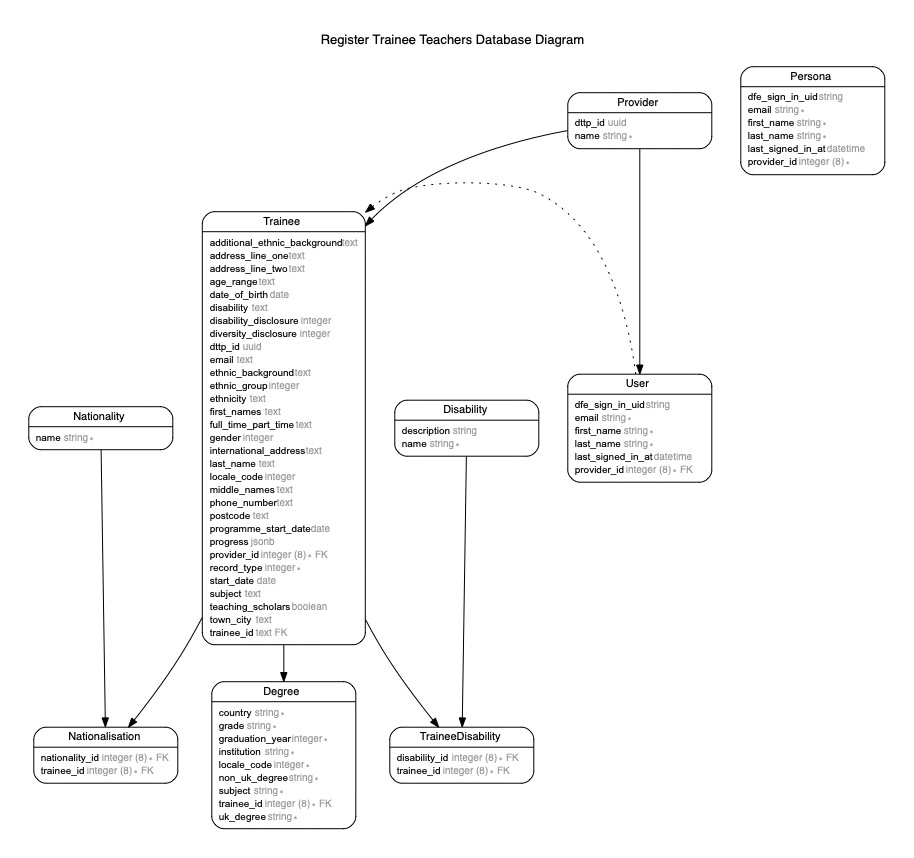
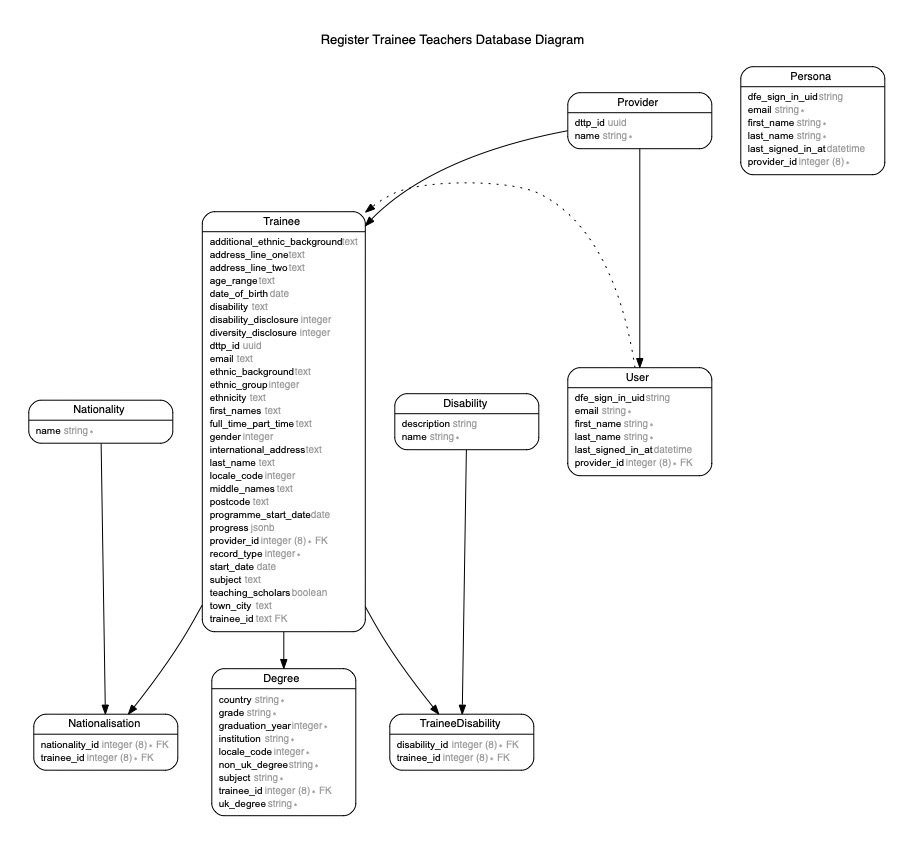
[605] remove trainee phone number

diff --git a/spec/components/trainees/confirmation/contact_details/view_spec.rb b/spec/components/trainees/confirmation/contact_details/view_spec.rb
@@ -10,8 +10,8 @@ RSpec.describe Trainees::Confirmation::ContactDetails::View do
       @result ||= render_inline(Trainees::Confirmation::ContactDetails::View.new(trainee: Trainee.new(id: 1)))
     end
 
-    it "renders blank rows for address, email, telephone" do
-      expect(component).to have_selector(".govuk-summary-list__row", count: 3)
+    it "renders blank rows for address, email" do
+      expect(component).to have_selector(".govuk-summary-list__row", count: 2)
     end
 
     it "tells the user that no data has been entered" do
@@ -27,8 +27,8 @@ RSpec.describe Trainees::Confirmation::ContactDetails::View do
       @result ||= render_inline(Trainees::Confirmation::ContactDetails::View.new(trainee: mock_trainee))
     end
 
-    it "renders rows for address, email, telephone" do
-      expect(component).to have_selector(".govuk-summary-list__row", count: 3)
+    it "renders rows for address, email" do
+      expect(component).to have_selector(".govuk-summary-list__row", count: 2)
     end
 
     it "renders the address" do
@@ -41,11 +41,6 @@ RSpec.describe Trainees::Confirmation::ContactDetails::View do
         ].join)
     end
 
-    it "renders the phone number" do
-      expect(component.find(".govuk-summary-list__row.phone-number .govuk-summary-list__value"))
-        .to have_text(mock_trainee.phone_number)
-    end
-
     it "renders the email address" do
       expect(component.find(".govuk-summary-list__row.email-address .govuk-summary-list__value"))
         .to have_text(mock_trainee.email)
@@ -55,23 +50,17 @@ RSpec.describe Trainees::Confirmation::ContactDetails::View do
   context "non UK based trainee" do
     before(:all) do
       mock_trainee.locale_code = "non_uk"
-      mock_trainee.phone_number = "+33 (0)8 92 70 12 39"
       mock_trainee.email = "visit@paris.com"
       @result ||= render_inline(Trainees::Confirmation::ContactDetails::View.new(trainee: mock_trainee))
     end
 
-    it "renders rows for address, email, telephone" do
-      expect(component).to have_selector(".govuk-summary-list__row", count: 3)
+    it "renders rows for address, email" do
+      expect(component).to have_selector(".govuk-summary-list__row", count: 2)
     end
 
     it "renders the address" do
       expect(component.find(".govuk-summary-list__row.address .govuk-summary-list__value"))
         .to have_text(mock_trainee.international_address.split(/\r\n+/).join)
-    end
-
-    it "renders the phone number" do
-      expect(component.find(".govuk-summary-list__row.phone-number .govuk-summary-list__value"))
-        .to have_text(mock_trainee.phone_number)
     end
 
     it "renders the email address" do
@@ -88,8 +77,7 @@ private
                                   address_line_two: "Westminster",
                                   town_city: "London",
                                   postcode: "EC1 9CP",
-                                  international_address: "Champ de Mars\r\n5 Avenue Anatole France\r\n75007 Paris\r\nFrance",
-                                  phone_number: "0207 123 4567",
+                                  international_address: "Champ de Mars\r\n5 Avenue Anatole",
                                   email: "Paddington@bear.com")
   end
 end

diff --git a/db/schema.rb b/db/schema.rb
@@ -10,7 +10,7 @@
 #
 # It's strongly recommended that you check this file into your version control system.
 
-ActiveRecord::Schema.define(version: 2020_12_01_145149) do
+ActiveRecord::Schema.define(version: 2020_12_07_122253) do
 
   # These are extensions that must be enabled in order to support this database
   enable_extension "plpgsql"
@@ -84,7 +84,6 @@ ActiveRecord::Schema.define(version: 2020_12_01_145149) do
     t.text "address_line_two"
     t.text "town_city"
     t.text "postcode"
-    t.text "phone_number"
     t.text "email"
     t.date "start_date"
     t.text "full_time_part_time"

diff --git a/spec/components/trainees/confirmation/contact_details/view_preview.rb b/spec/components/trainees/confirmation/contact_details/view_preview.rb
@@ -12,7 +12,6 @@ module Trainees
 
         def with_non_uk_address
           mock_trainee.locale_code = "non_uk"
-          mock_trainee.phone_number = "+33 (0)8 92 70 12 39"
           mock_trainee.email = "visit@paris.com"
           render_component(Trainees::Confirmation::ContactDetails::View.new(trainee: mock_trainee))
         end
@@ -31,7 +30,6 @@ module Trainees
             address_line_two: "Westminster",
             town_city: "London",
             postcode: "EC1 9CP",
-            phone_number: "0207 123 4567",
             email: "Paddington@bear.com",
           )
         end

diff --git a/app/models/contact_detail.rb b/app/models/contact_detail.rb
@@ -18,7 +18,6 @@ class ContactDetail
     *MANDATORY_UK_ADDRESS_FIELDS,
     "address_line_two",
     "international_address",
-    "phone_number",
     "email",
   ].freeze
 
@@ -30,8 +29,6 @@ class ContactDetail
   validate :international_address_not_empty
   validate :uk_address_must_not_be_empty
   validates :postcode, postcode: true, if: ->(attr) { attr.postcode.present? }
-  validates :phone_number, presence: true
-  validates :phone_number, phone: true
   validates :email, presence: true
   validates :email, format: { with: URI::MailTo::EMAIL_REGEXP }
 

diff --git a/spec/support/page_objects/trainees/contact_details.rb b/spec/support/page_objects/trainees/contact_details.rb
@@ -10,7 +10,6 @@ module PageObjects
       element :address_line_two, "#contact-detail-address-line-two-field"
       element :town_city, "#contact-detail-town-city-field"
       element :postcode, "#contact-detail-postcode-field"
-      element :phone_number, "#contact-detail-phone-number-field"
       element :email, "#contact-detail-email-field"
       element :international_address, "#contact-detail-international-address-field"
       element :submit_button, "input[name='commit']"

diff --git a/app/presenters/dttp/trainee_presenter.rb b/app/presenters/dttp/trainee_presenter.rb
@@ -24,7 +24,6 @@ module Dttp
         "birthdate" => date_of_birth.to_s,
         "emailaddress1" => email,
         "gendercode" => gender_code,
-        "mobilephone" => phone_number,
         "dfe_EthnicityId@odata.bind" => "/dfe_ethnicities(#{dttp_ethnicity_id})",
         "dfe_DisibilityId@odata.bind" => "/dfe_disabilities(#{dttp_disability_id})",
         "parentcustomerid_account@odata.bind" => "/accounts(#{provider.dttp_id})",

diff --git a/spec/support/page_objects/sections/summaries/contact_detail.rb b/spec/support/page_objects/sections/summaries/contact_detail.rb
@@ -7,7 +7,6 @@ module PageObjects
     module Summaries
       class ContactDetail < PageObjects::Sections::Base
         element :address, ".govuk-summary-list__row.address .govuk-summary-list__value"
-        element :phone_number, ".govuk-summary-list__row.phone-number .govuk-summary-list__value"
         element :email, ".govuk-summary-list__row.email-address .govuk-summary-list__value"
       end
     end

diff --git a/spec/features/trainees/trainee_summary_spec.rb b/spec/features/trainees/trainee_summary_spec.rb
@@ -36,7 +36,6 @@ feature "Trainee summary page", type: :system do
 
     expect(summary_page.contact_details.address.text).to eq(expected_address)
     expect(summary_page.contact_details.postcode.text).to eq(trainee.postcode)
-    expect(summary_page.contact_details.phone_number.text).to eq(trainee.phone_number)
     expect(summary_page.contact_details.email.text).to eq(trainee.email)
   end
 end

diff --git a/spec/support/page_objects/sections/contact_details.rb b/spec/support/page_objects/sections/contact_details.rb
@@ -7,7 +7,6 @@ module PageObjects
     class ContactDetails < PageObjects::Sections::Base
       element :address, ".address .govuk-summary-list__value"
       element :postcode, ".postcode .govuk-summary-list__value"
-      element :phone_number, ".phone-number .govuk-summary-list__value"
       element :email, ".email .govuk-summary-list__value"
     end
   end

diff --git a/spec/presenters/dttp/trainee_presenter_spec.rb b/spec/presenters/dttp/trainee_presenter_spec.rb
@@ -80,7 +80,6 @@ module Dttp
             "birthdate" => trainee.date_of_birth.to_s,
             "emailaddress1" => trainee.email,
             "gendercode" => 1,
-            "mobilephone" => trainee.phone_number,
             "parentcustomerid_account@odata.bind" => "/accounts(#{trainee.provider.dttp_id})",
           })
         end

diff --git a/spec/factories/trainees.rb b/spec/factories/trainees.rb
@@ -30,7 +30,6 @@ FactoryBot.define do
     postcode { Faker::Address.postcode }
     international_address { nil }
     locale_code { :uk }
-    phone_number { [Faker::PhoneNumber.phone_number, Faker::PhoneNumber.cell_phone].sample }
     email { "#{first_names}.#{last_name}@example.com" }
 
     start_date { Time.zone.now }

diff --git a/spec/models/contact_detail_spec.rb b/spec/models/contact_detail_spec.rb
@@ -9,7 +9,6 @@ describe ContactDetail do
 
   describe "validations" do
     it { is_expected.to validate_presence_of(:locale_code) }
-    it { is_expected.to validate_presence_of(:phone_number) }
     it { is_expected.to validate_presence_of(:email) }
 
     context "international address validations" do
